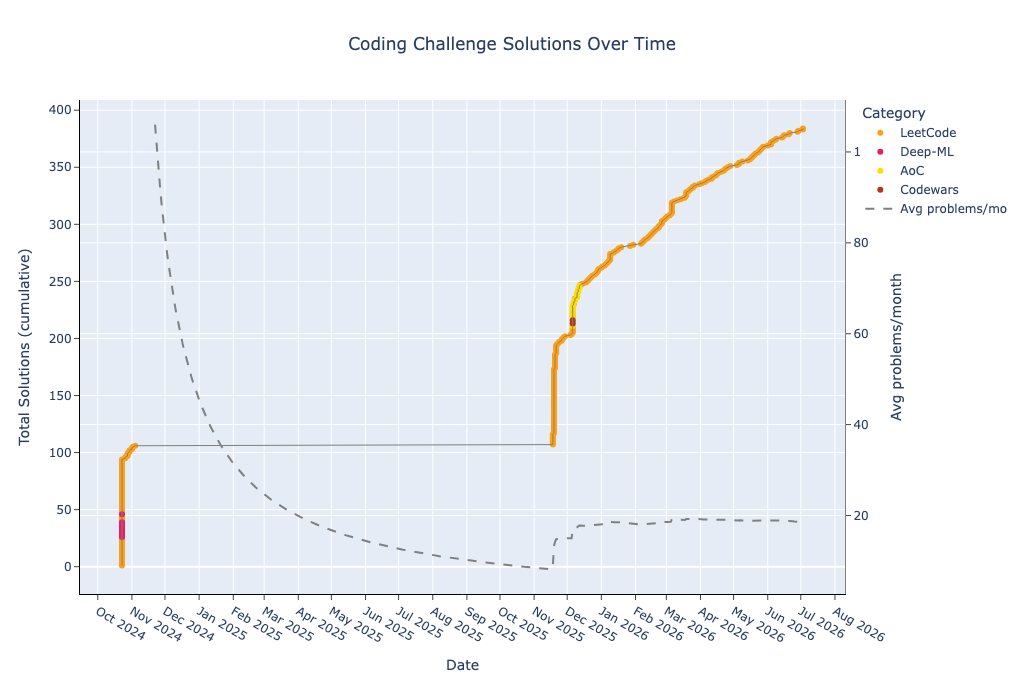
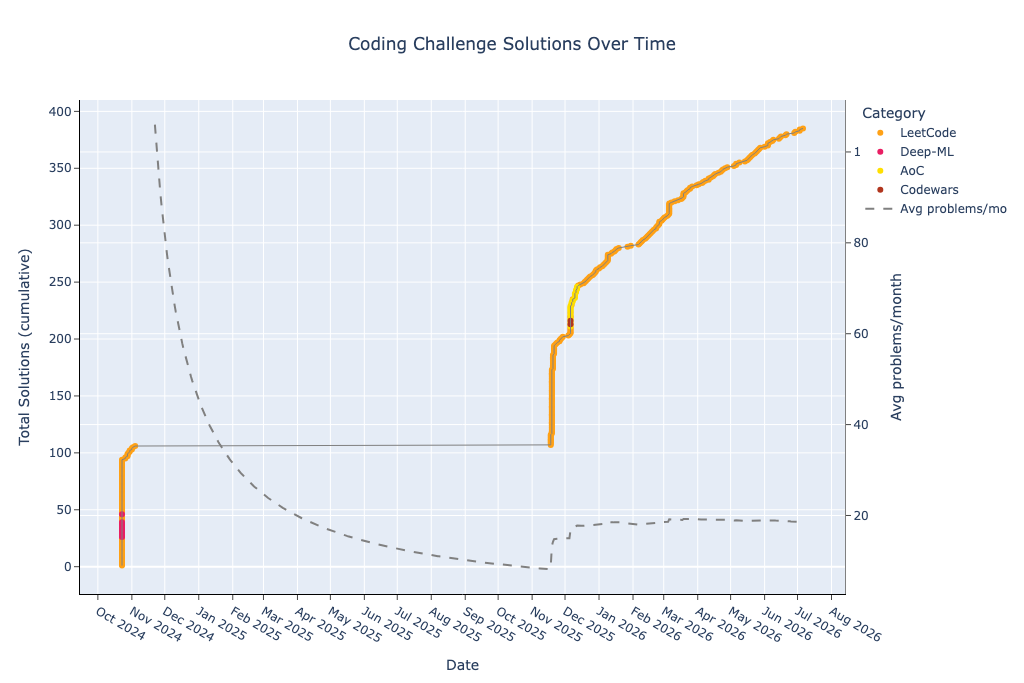
Regenerate README

diff --git a/README.md b/README.md
@@ -36,7 +36,7 @@ This repository contains a collection of coding problems solved on various platf
 | deep-ml-easy | 9 | 72 | 8 | 10 | 0 | 2 | 13 | 0 | 0 | 0 | 12 | 3 | 0 | 0 | 0 | 0 | 0 | 0 |
 | deep-ml-medium | 5 | 69 | 13 | 5 | 0 | 1 | 7 | 0 | 0 | 0 | 8 | 2 | 0 | 0 | 0 | 0 | 0 | 0 |
 | leetcode-easy | 122 | 1990 | 16 | 164 | 6 | 166 | 159 | 42 | 6 | 14 | 199 | 4 | 4 | 14 | 1 | 0 | 12 | 0 |
-| leetcode-medium | 187 | 4837 | 25 | 330 | 5 | 491 | 359 | 109 | 22 | 43 | 406 | 6 | 37 | 59 | 11 | 28 | 24 | 7 |
+| leetcode-medium | 188 | 4859 | 25 | 332 | 7 | 493 | 360 | 109 | 22 | 44 | 408 | 6 | 37 | 59 | 11 | 28 | 26 | 7 |
 | leetcode-hard | 35 | 1107 | 31 | 65 | 4 | 104 | 91 | 23 | 11 | 16 | 82 | 3 | 7 | 15 | 8 | 5 | 9 | 9 |
 
 ## Recent Changes
@@ -47,6 +47,7 @@ Recently solved and added problems.
 
 | Date | Type | Challenge | Solution Code | Problem Link |
 | --- | --- | --- | --- | --- |
+| 2026-07-06 | LeetCode Medium | Remove Covered Intervals | [python](leetcode/medium/1288.%20Remove%20Covered%20Intervals.py) | [leetcode.com](https://leetcode.com/problems/remove-covered-intervals/) |
 | 2026-07-03 | LeetCode Hard | Network Recovery Pathways | [python](leetcode/hard/3620.%20Network%20Recovery%20Pathways.py) | [leetcode.com](https://leetcode.com/problems/network-recovery-pathways/) |
 | 2026-07-03 | LeetCode Medium | Find a Safe Walk Through a Grid | [python](leetcode/medium/3286.%20Find%20a%20Safe%20Walk%20Through%20a%20Grid.py) | [leetcode.com](https://leetcode.com/problems/find-a-safe-walk-through-a-grid/) |
 | 2026-06-29 | LeetCode Easy | Number of Strings That Appear as Substrings in Word | [python](leetcode/easy/1967.%20Number%20of%20Strings%20That%20Appear%20as%20Substrings%20in%20Word.py) | [leetcode.com](https://leetcode.com/problems/number-of-strings-that-appear-as-substrings-in-word/) |
@@ -56,7 +57,6 @@ Recently solved and added problems.
 | 2026-06-16 | LeetCode Medium | Process String with Special Operations I | [python](leetcode/medium/3612.%20Process%20String%20with%20Special%20Operations%20I.py) | [leetcode.com](https://leetcode.com/problems/process-string-with-special-operations-i/) |
 | 2026-06-15 | LeetCode Medium | Delete the Middle Node of a Linked List | [python](leetcode/medium/2095.%20Delete%20the%20Middle%20Node%20of%20a%20Linked%20List.py) | [leetcode.com](https://leetcode.com/problems/delete-the-middle-node-of-a-linked-list/) |
 | 2026-06-14 | LeetCode Easy | Weighted Word Mapping | [python](leetcode/easy/3838.%20Weighted%20Word%20Mapping.py) | [leetcode.com](https://leetcode.com/problems/weighted-word-mapping/) |
-| 2026-06-14 | LeetCode Medium | Maximum Twin Sum of a Linked List | [python](leetcode/medium/2130.%20Maximum%20Twin%20Sum%20of%20a%20Linked%20List.py) | [leetcode.com](https://leetcode.com/problems/maximum-twin-sum-of-a-linked-list/) |
 # Advent of Code
 ### 2025
 | Day | Challenge | Time Complexity | Space Complexity | Solution Code | Problem Link |
@@ -354,6 +354,7 @@ Recently solved and added problems.
 | 1248 | Count Number of Nice Subarrays | O(n) | O(1) | [python](leetcode/medium/1248.%20Count%20Number%20of%20Nice%20Subarrays.py) | [leetcode.com](https://leetcode.com/problems/count-number-of-nice-subarrays/) |
 | 1249 | Minimum Remove to Make Valid Parentheses | O(n) | O(n) | [python](leetcode/medium/1249.%20Minimum%20Remove%20to%20Make%20Valid%20Parentheses.py) | [leetcode.com](https://leetcode.com/problems/minimum-remove-to-make-valid-parentheses/) |
 | 1262 | Greatest Sum Divisible by Three | O(n) | O(1) | [python](leetcode/medium/1262.%20Greatest%20Sum%20Divisible%20by%20Three.py) | [leetcode.com](https://leetcode.com/problems/greatest-sum-divisible-by-three/) |
+| 1288 | Remove Covered Intervals | O(n log n) | O(1) | [python](leetcode/medium/1288.%20Remove%20Covered%20Intervals.py) | [leetcode.com](https://leetcode.com/problems/remove-covered-intervals/) |
 | 1292 | Maximum Side Length of a Square with Sum Less than or Equal to Threshold | O(n) | O(1) | [python](leetcode/medium/1292.%20Maximum%20Side%20Length%20of%20a%20Square%20with%20Sum%20Less%20than%20or%20Equal%20to%20Threshold.py) | [leetcode.com](https://leetcode.com/problems/maximum-side-length-of-a-square-with-sum-less-than-or-equal-to-threshold) |
 | 1306 | Jump Game III | O(n) | O(n) | [python](leetcode/medium/1306.%20Jump%20Game%20III.py) | [leetcode.com](https://leetcode.com/problems/jump-game-iii/) |
 | 1339 | Maximum Product of Splitted Binary Tree | O(n) | O(1) | [python](leetcode/medium/1339.%20Maximum%20Product%20of%20Splitted%20Binary%20Tree.py) | [leetcode.com](https://leetcode.com/problems/maximum-product-of-splitted-binary-tree/) |

diff --git a/CHANGES.md b/CHANGES.md
@@ -6,6 +6,7 @@ Recently solved and added problems.
 
 | Date | Type | Challenge | Solution Code | Problem Link |
 | --- | --- | --- | --- | --- |
+| 2026-07-06 | LeetCode Medium | Remove Covered Intervals | [python](leetcode/medium/1288.%20Remove%20Covered%20Intervals.py) | [leetcode.com](https://leetcode.com/problems/remove-covered-intervals/) |
 | 2026-07-03 | LeetCode Hard | Network Recovery Pathways | [python](leetcode/hard/3620.%20Network%20Recovery%20Pathways.py) | [leetcode.com](https://leetcode.com/problems/network-recovery-pathways/) |
 | 2026-07-03 | LeetCode Medium | Find a Safe Walk Through a Grid | [python](leetcode/medium/3286.%20Find%20a%20Safe%20Walk%20Through%20a%20Grid.py) | [leetcode.com](https://leetcode.com/problems/find-a-safe-walk-through-a-grid/) |
 | 2026-06-29 | LeetCode Easy | Number of Strings That Appear as Substrings in Word | [python](leetcode/easy/1967.%20Number%20of%20Strings%20That%20Appear%20as%20Substrings%20in%20Word.py) | [leetcode.com](https://leetcode.com/problems/number-of-strings-that-appear-as-substrings-in-word/) |
@@ -15,4 +16,3 @@ Recently solved and added problems.
 | 2026-06-16 | LeetCode Medium | Process String with Special Operations I | [python](leetcode/medium/3612.%20Process%20String%20with%20Special%20Operations%20I.py) | [leetcode.com](https://leetcode.com/problems/process-string-with-special-operations-i/) |
 | 2026-06-15 | LeetCode Medium | Delete the Middle Node of a Linked List | [python](leetcode/medium/2095.%20Delete%20the%20Middle%20Node%20of%20a%20Linked%20List.py) | [leetcode.com](https://leetcode.com/problems/delete-the-middle-node-of-a-linked-list/) |
 | 2026-06-14 | LeetCode Easy | Weighted Word Mapping | [python](leetcode/easy/3838.%20Weighted%20Word%20Mapping.py) | [leetcode.com](https://leetcode.com/problems/weighted-word-mapping/) |
-| 2026-06-14 | LeetCode Medium | Maximum Twin Sum of a Linked List | [python](leetcode/medium/2130.%20Maximum%20Twin%20Sum%20of%20a%20Linked%20List.py) | [leetcode.com](https://leetcode.com/problems/maximum-twin-sum-of-a-linked-list/) |
